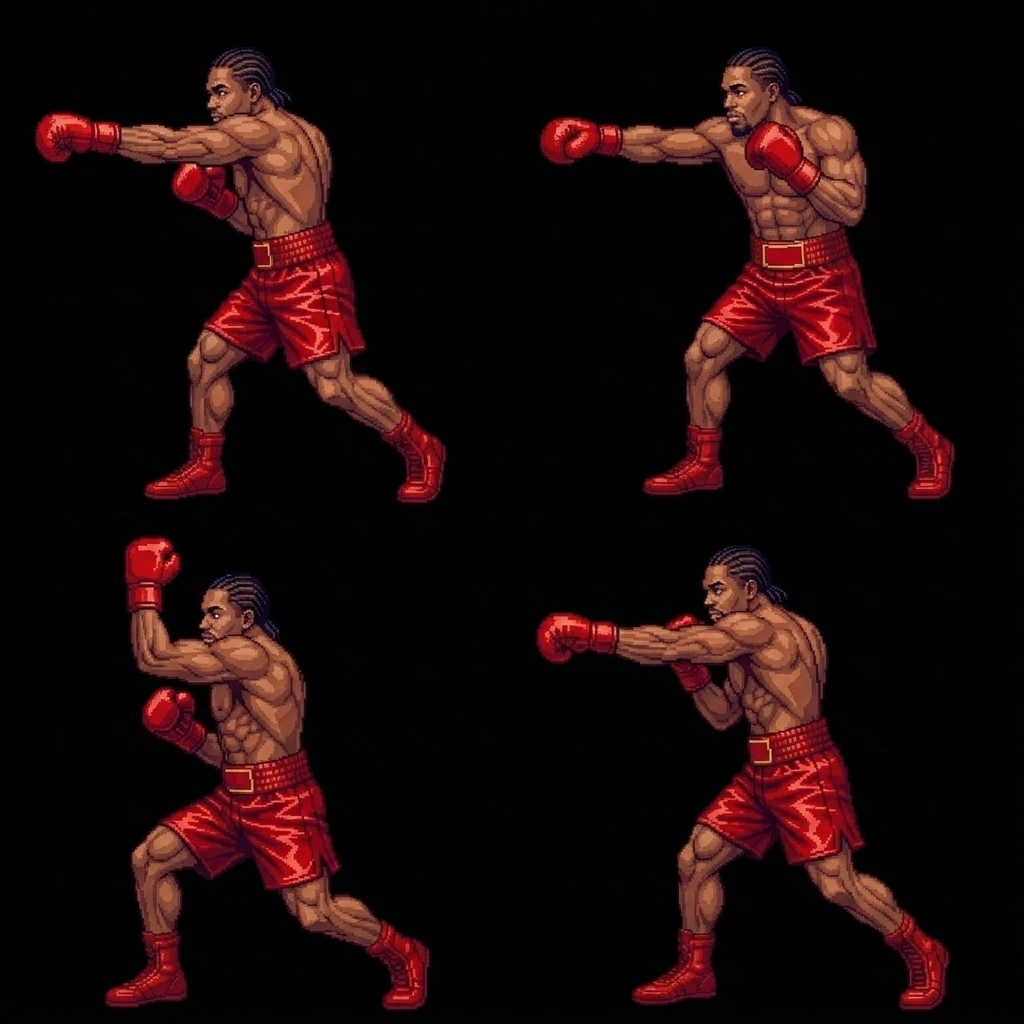
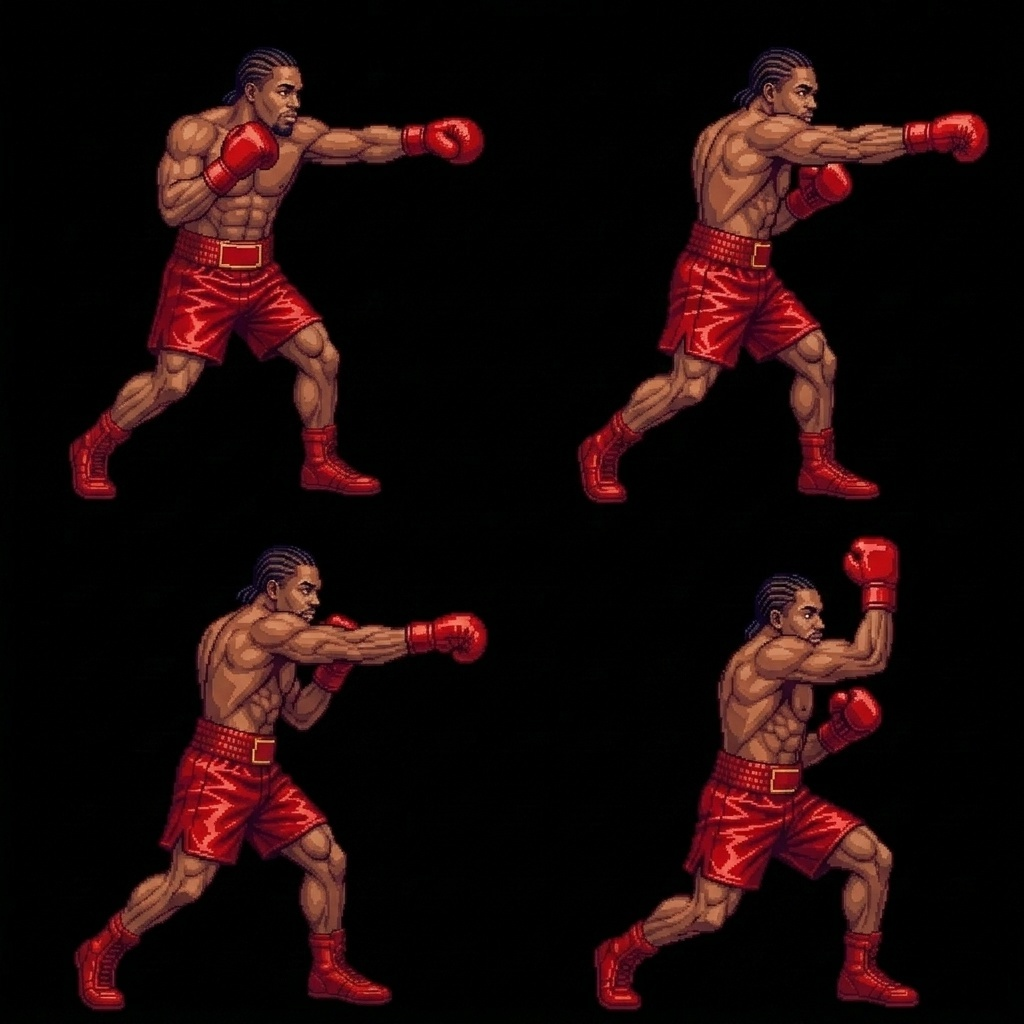
fix: correctly flip images by avoiding windows file lock

Changed region(s): [[0.0312, 0.0312, 0.9688, 1.0]]

diff --git a/index.html b/index.html
@@ -1676,13 +1676,13 @@
     const rosterIds = ['broner', 'deen', 'ryan', 'n3on', 'rayj', 'blueface', 'chrisean', 'rampage', 'adin', 'charleston', 'walid', 'abrown', 'tank', 'floyd'];
     rosterIds.forEach(id => {
       const imgIdle = new Image();
-      imgIdle.src = 'assets/' + id + '_sprite.jpg?v=6';
+      imgIdle.src = 'assets/' + id + '_sprite.jpg?v=7';
       imgIdle.onload = () => {
         ROSTER_IDLE_CANVASES[id] = createTransparentCanvas(imgIdle);
       };
 
       const imgPunch = new Image();
-      imgPunch.src = 'assets/' + id + '_punches.jpg?v=6';
+      imgPunch.src = 'assets/' + id + '_punches.jpg?v=7';
       imgPunch.onload = () => {
         ROSTER_PUNCH_CANVASES[id] = createTransparentCanvas(imgPunch);
       };

diff --git a/test_sprites.html b/test_sprites.html
@@ -15,8 +15,8 @@
       document.write(`
         <div class="row">
           <div class="label">${id}</div>
-          <img src="assets/${id}_sprite.jpg?v=6" alt="${id} idle" />
-          <img src="assets/${id}_punches.jpg?v=6" alt="${id} punches" />
+          <img src="assets/${id}_sprite.jpg?v=7" alt="${id} idle" />
+          <img src="assets/${id}_punches.jpg?v=7" alt="${id} punches" />
         </div>
       `);
     });
